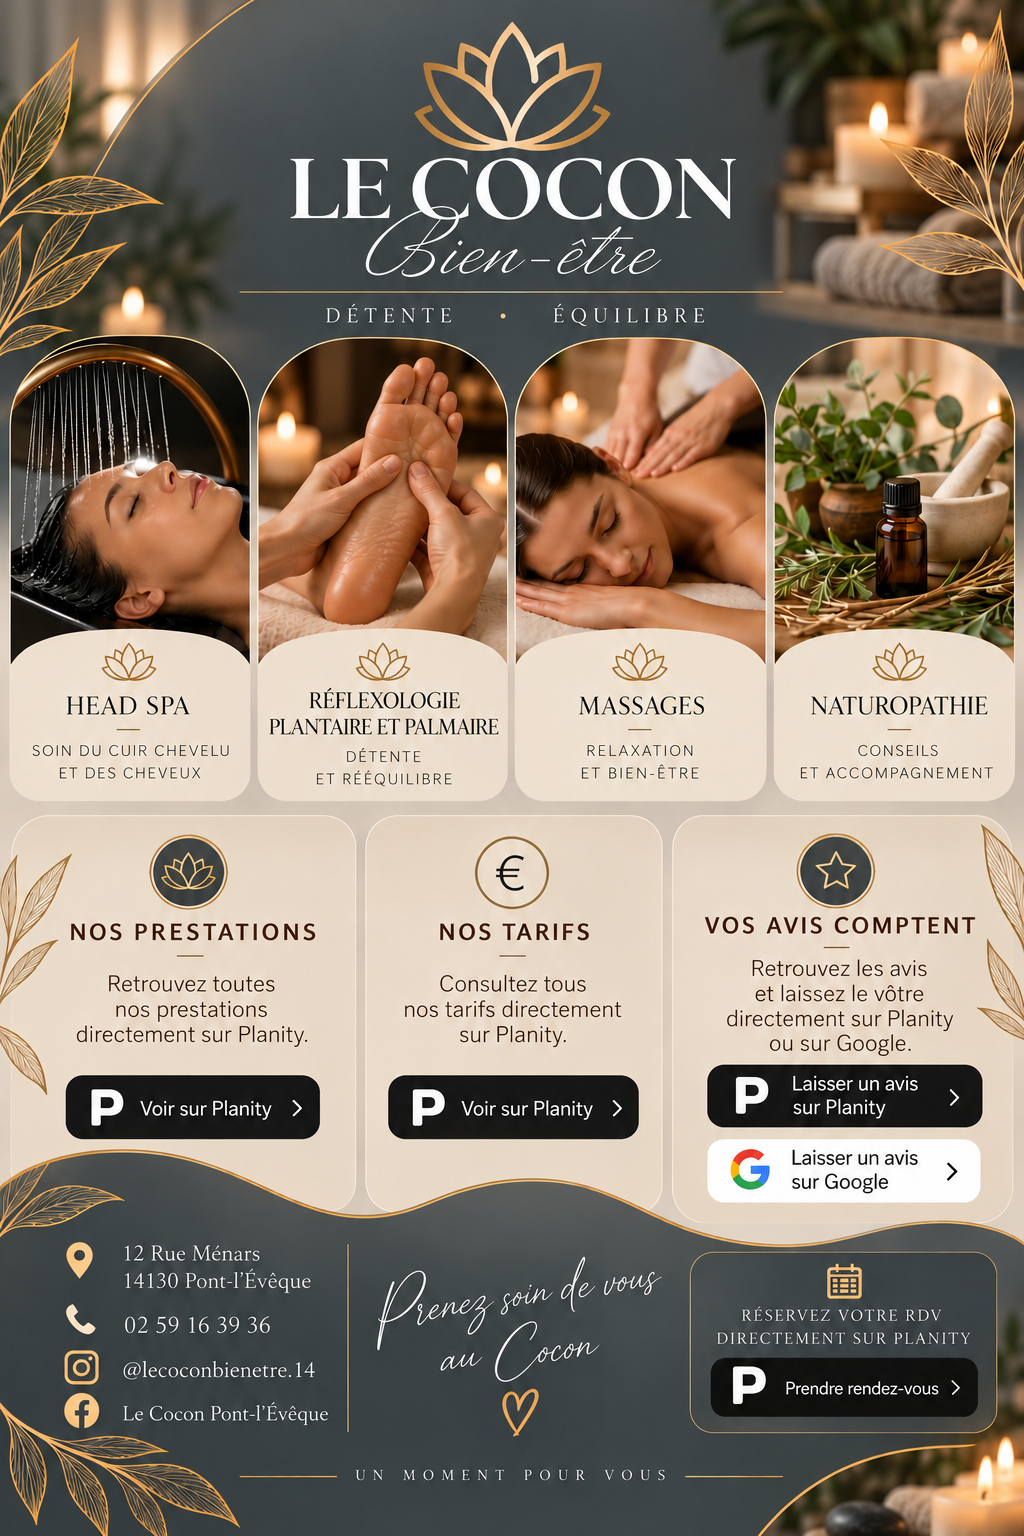
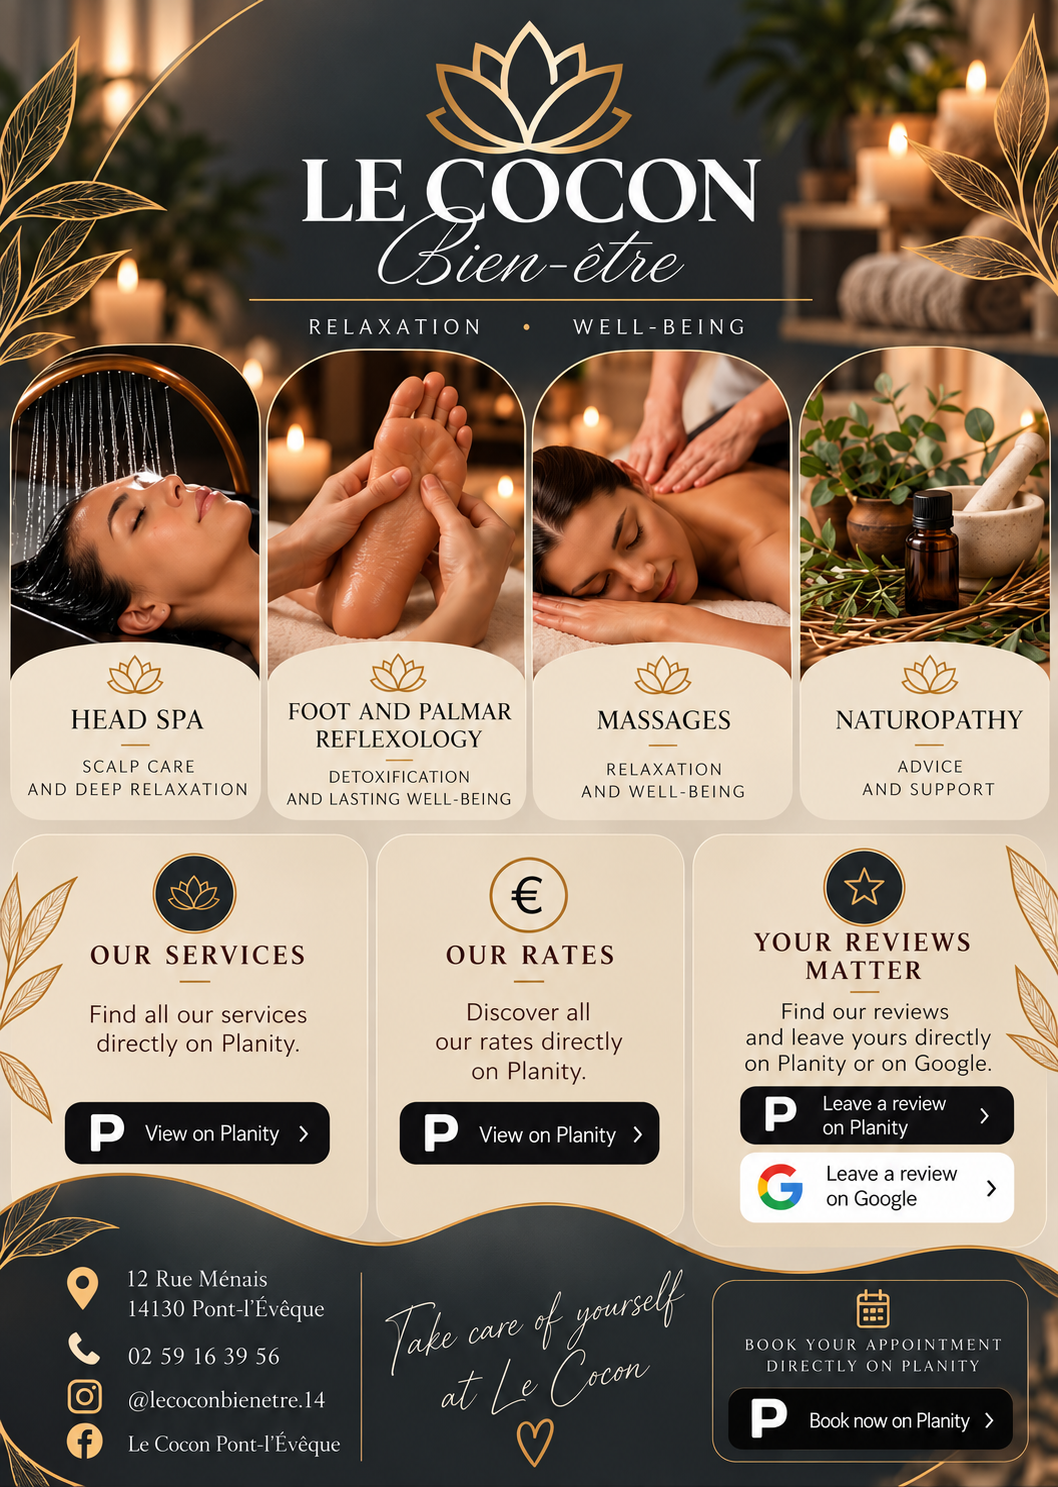
Add files via upload

diff --git a/index.html b/index.html
@@ -146,66 +146,30 @@ body > .skiptranslate{display:none!important;height:0!important;visibility:hidde
 </style>
 </head>
 <body>
-<div id="cocon-language-switcher" aria-label="Choisir la langue du site">
+<div id="cocon-language-switcher" aria-label="Choisir la langue de l’affiche">
 <button type="button" data-lang="fr" aria-label="Français" aria-pressed="true">🇫🇷<span class="lang-code">FR</span></button>
 <button type="button" data-lang="en" aria-label="English" aria-pressed="false">🇬🇧<span class="lang-code">EN</span></button>
-<button type="button" data-lang="es" aria-label="Español" aria-pressed="false">🇪🇸<span class="lang-code">ES</span></button>
-<button type="button" data-lang="de" aria-label="Deutsch" aria-pressed="false">🇩🇪<span class="lang-code">DE</span></button>
-<button type="button" data-lang="it" aria-label="Italiano" aria-pressed="false">🇮🇹<span class="lang-code">IT</span></button>
-<button type="button" data-lang="nl" aria-label="Nederlands" aria-pressed="false">🇳🇱<span class="lang-code">NL</span></button>
-<button type="button" data-lang="ru" aria-label="Русский" aria-pressed="false">🇷🇺<span class="lang-code">RU</span></button>
 </div><div id="google_translate_element" aria-hidden="true"></div>
 <script>
 (function(){
- var root=document.getElementById('cocon-language-switcher'); if(!root)return;
- function setPressed(lang){root.querySelectorAll('button[data-lang]').forEach(function(b){b.setAttribute('aria-pressed',b.getAttribute('data-lang')===lang?'true':'false')})}
- function writeCookie(name,value,domain){
-   var cookie=name+'='+value+'; path=/; SameSite=Lax';
-   if(domain) cookie+='; domain='+domain;
-   document.cookie=cookie;
- }
- function clearTranslateCookies(){
-   var expired='; expires=Thu, 01 Jan 1970 00:00:00 GMT; path=/; SameSite=Lax';
-   document.cookie='googtrans='+expired;
-   var host=location.hostname;
-   document.cookie='googtrans='+expired+'; domain='+host;
-   if(host==='www.lecocon14.com'||host==='lecocon14.com'){
-     document.cookie='googtrans='+expired+'; domain=.lecocon14.com';
-     document.cookie='googtrans='+expired+'; domain=lecocon14.com';
-   }
-   try{localStorage.removeItem('googtrans')}catch(e){}
- }
+ var root=document.getElementById('cocon-language-switcher');
+ var poster=document.getElementById('cocon-main-poster');
+ if(!root||!poster)return;
  function setLang(lang){
-   if(!['fr','en','es','de','it','nl','ru'].includes(lang)) return;
-   clearTranslateCookies();
-   if(lang!=='fr'){
-     writeCookie('googtrans','/fr/'+lang);
-     var host=location.hostname;
-     if(host==='www.lecocon14.com'||host==='lecocon14.com') writeCookie('googtrans','/fr/'+lang,'.lecocon14.com');
-   }
-   try{localStorage.setItem('cocon-lang',lang)}catch(e){}
-   setPressed(lang);
-   applyPosterLanguage(lang);
-   location.reload();
+   if(lang!=='fr'&&lang!=='en')return;
+   poster.src=lang==='en'?'./maquette-en.png':'./maquette.png';
+   poster.alt=lang==='en'?'Le Cocon Wellness Studio poster in English.':'Affiche du Cocon Bien-Être en français.';
+   root.querySelectorAll('button[data-lang]').forEach(function(b){
+     b.setAttribute('aria-pressed',b.getAttribute('data-lang')===lang?'true':'false');
+   });
+   try{localStorage.setItem('cocon-poster-lang',lang)}catch(e){}
  }
- function applyPosterLanguage(lang){
-   var poster=document.getElementById('cocon-home-poster');
-   if(!poster)return;
-   var code=lang||'fr';
-   var files={fr:'maquette.png',en:'maquette-en.png',es:'maquette-es.png',de:'maquette-de.png',it:'maquette-it.png',nl:'maquette-nl.png',ru:'maquette-ru.png'};
-   poster.onerror=function(){poster.onerror=null;poster.src='./maquette.png'};
-   poster.src='./'+(files[code]||files.fr);
- }
- root.querySelectorAll('button[data-lang]').forEach(function(b){b.addEventListener('click',function(){setLang(b.getAttribute('data-lang'))})});
- function currentLang(){
-   var match=document.cookie.match(/(?:^|;\s*)googtrans=\/fr\/(en|es|de|it|nl|ru)/);
-   if(match)return match[1];
-   try{var stored=localStorage.getItem('cocon-lang');if(stored)return stored}catch(e){}
-   return 'fr';
- }
- var selected=currentLang();setPressed(selected);applyPosterLanguage(selected);
- window.googleTranslateElementInit=function(){new google.translate.TranslateElement({pageLanguage:'fr',includedLanguages:'en,es,de,it,nl,ru',autoDisplay:false},'google_translate_element');};
- var script=document.createElement('script');script.src='https://translate.google.com/translate_a/element.js?cb=googleTranslateElementInit';script.async=true;document.head.appendChild(script);
+ root.querySelectorAll('button[data-lang]').forEach(function(b){
+   b.addEventListener('click',function(){setLang(b.getAttribute('data-lang'))});
+ });
+ var initial='fr';
+ try{initial=localStorage.getItem('cocon-poster-lang')||'fr'}catch(e){}
+ setLang(initial);
 })();
 </script>
 
@@ -238,7 +202,7 @@ body > .skiptranslate{display:none!important;height:0!important;visibility:hidde
   </nav>
 </header>
 <main id="contenu">
-<section class="poster" aria-label="Présentation du Cocon Bien-Être"><img id="cocon-home-poster" src="./maquette.png" data-base="./maquette" alt="Présentation du salon Le Cocon Bien-Être à Pont-l’Évêque et de ses prestations de bien-être.">
+<section class="poster" aria-label="Présentation du Cocon Bien-Être"><img id="cocon-main-poster" src="./maquette.png" alt="Affiche du Cocon Bien-Être en français.">
 <a class="hotspot planity-services" href="https://www.planity.com/le-cocon-head-spa-modelage-14130-pont-leveque" target="_blank" rel="noopener noreferrer" aria-label="Voir les prestations sur Planity"></a><a class="hotspot planity-tarifs" href="https://www.planity.com/le-cocon-head-spa-modelage-14130-pont-leveque" target="_blank" rel="noopener noreferrer" aria-label="Voir les tarifs sur Planity"></a><a class="hotspot planity-review" href="https://www.planity.com/le-cocon-head-spa-modelage-14130-pont-leveque" target="_blank" rel="noopener noreferrer" aria-label="Avis Planity"></a><a class="hotspot google-review" href="https://www.google.com/search?q=Le+Cocon+Bien-%C3%AAtre+Pont-l%27%C3%89v%C3%AAque" target="_blank" rel="noopener noreferrer" aria-label="Avis Google"></a><a class="hotspot phone" href="tel:+33259163936" aria-label="Appeler le salon"></a><a class="hotspot instagram" href="https://www.instagram.com/lecocon.bienetre/" target="_blank" rel="noopener noreferrer" aria-label="Instagram du Cocon"></a><a class="hotspot facebook" href="https://www.facebook.com/lecoconpontleveque/" target="_blank" rel="noopener noreferrer" aria-label="Facebook du Cocon"></a><a class="hotspot planity-booking" href="https://www.planity.com/le-cocon-head-spa-modelage-14130-pont-leveque" target="_blank" rel="noopener noreferrer" aria-label="Prendre rendez-vous sur Planity"></a></section>
 <section class="services" id="about" aria-labelledby="services-title"><div class="services-inner"><div class="eyebrow">Votre parenthèse de douceur</div><h1 id="services-title">Le Cocon Bien-Être à Pont-l’Évêque</h1><p class="intro">Bienvenue au Cocon Bien-Être, un espace dédié à la détente et au lâcher-prise à Pont-l’Évêque, dans le Calvados. Découvrez nos soins et choisissez le moment de bien-être qui vous ressemble.</p><div class="service-grid">
 <article class="service-card"><a class="service-card-link" href="./head-spa.html" aria-label="Découvrir : Head Spa"><h3>Head Spa</h3><p>Offrez-vous une pause relaxante dédiée au cuir chevelu, avec des gestes enveloppants pour favoriser la détente et profiter d’un moment pour vous.</p></a></article><article class="service-card"><a class="service-card-link" href="./massage-bien-etre.html" aria-label="Découvrir : Massages bien-être"><h3>Massages bien-être</h3><p>Profitez d’un massage bien-être dans une atmosphère apaisante. Les gestes doux invitent à relâcher les tensions du quotidien et à retrouver une agréable sensation de détente.</p></a></article><article class="service-card"><a class="service-card-link" href="./massage-pierres-chaudes.html" aria-label="Découvrir : Massage aux pierres chaudes"><h3>Massage aux pierres chaudes</h3><p>La chaleur des pierres et les mouvements du modelage vous invitent à ralentir, à vous détendre et à profiter d’une parenthèse chaleureuse et réconfortante.</p></a></article><article class="service-card"><a class="service-card-link" href="./reflexologie-plantaire.html" aria-label="Découvrir : Réflexologie plantaire"><h3>Réflexologie plantaire</h3><p>Un soin de détente centré sur les pieds, réalisé par des pressions sur des zones précises, pour s’accorder un moment calme et favoriser le relâchement.</p></a></article><article class="service-card"><a class="service-card-link" href="./reflexologie-palmaire.html" aria-label="Découvrir : Réflexologie palmaire"><h3>Réflexologie palmaire</h3><p>Une pause douce dédiée aux mains, avec des pressions ciblées qui invitent à relâcher les tensions et à profiter d’un instant de relaxation.</p></a></article><article class="service-card"><a class="service-card-link" href="./naturopathie.html" aria-label="Découvrir : Naturopathie"><h3>Naturopathie</h3><p>Un accompagnement personnalisé autour de l’hygiène de vie et des habitudes du quotidien, pour faire le point sur vos besoins et vos objectifs de bien-être.</p></a></article></div><div class="booking-wrap"><a class="booking-button" href="https://www.planity.com/le-cocon-head-spa-modelage-14130-pont-leveque" target="_blank" rel="noopener noreferrer">Découvrir les prestations et réserver</a></div></div></section>
